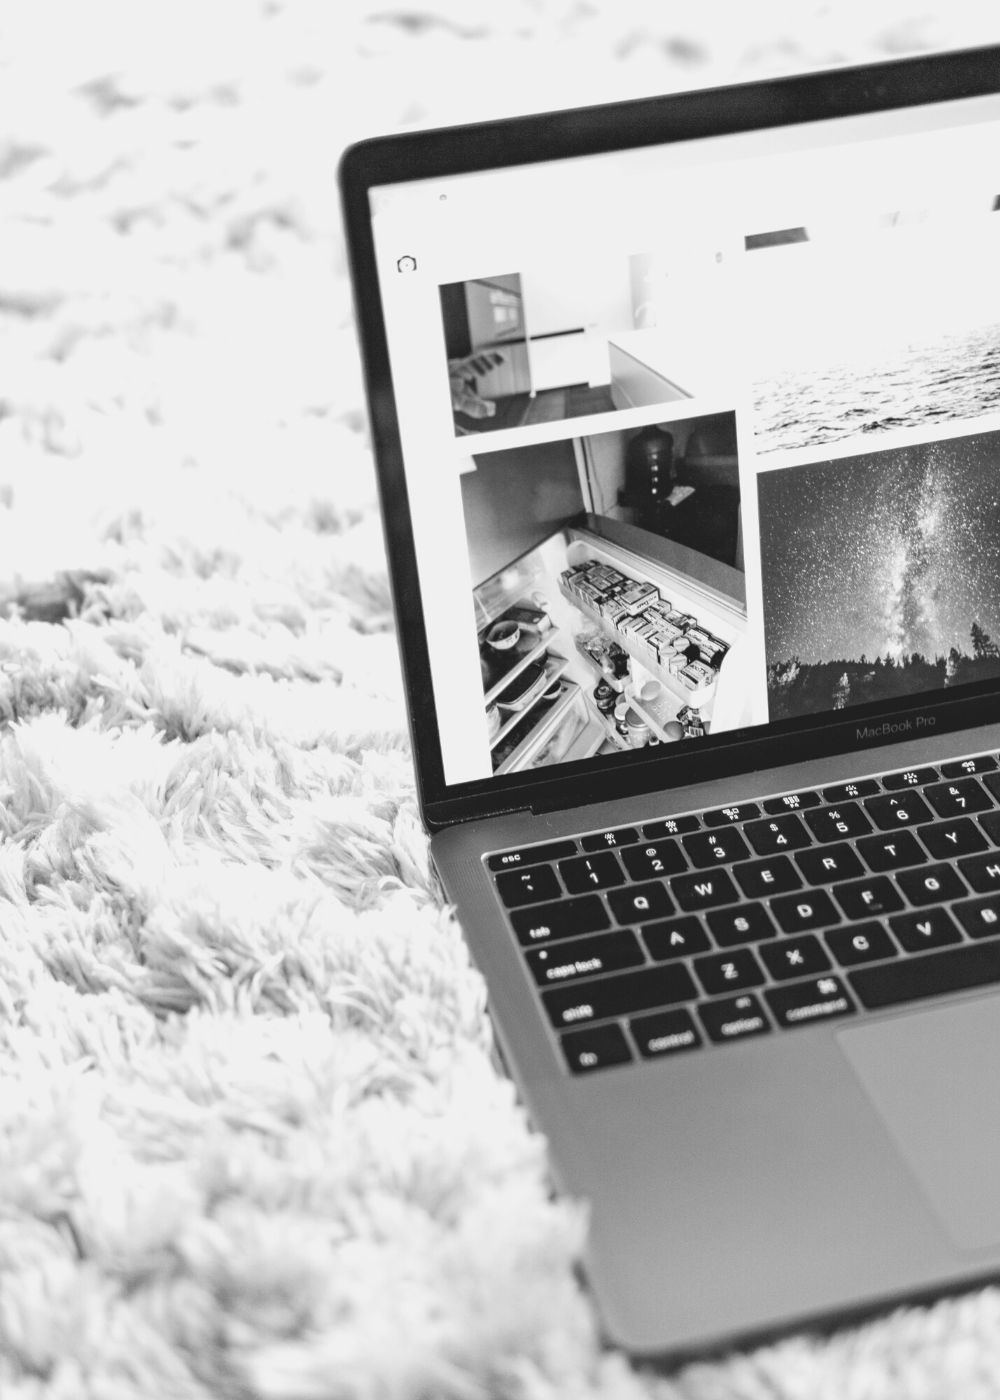
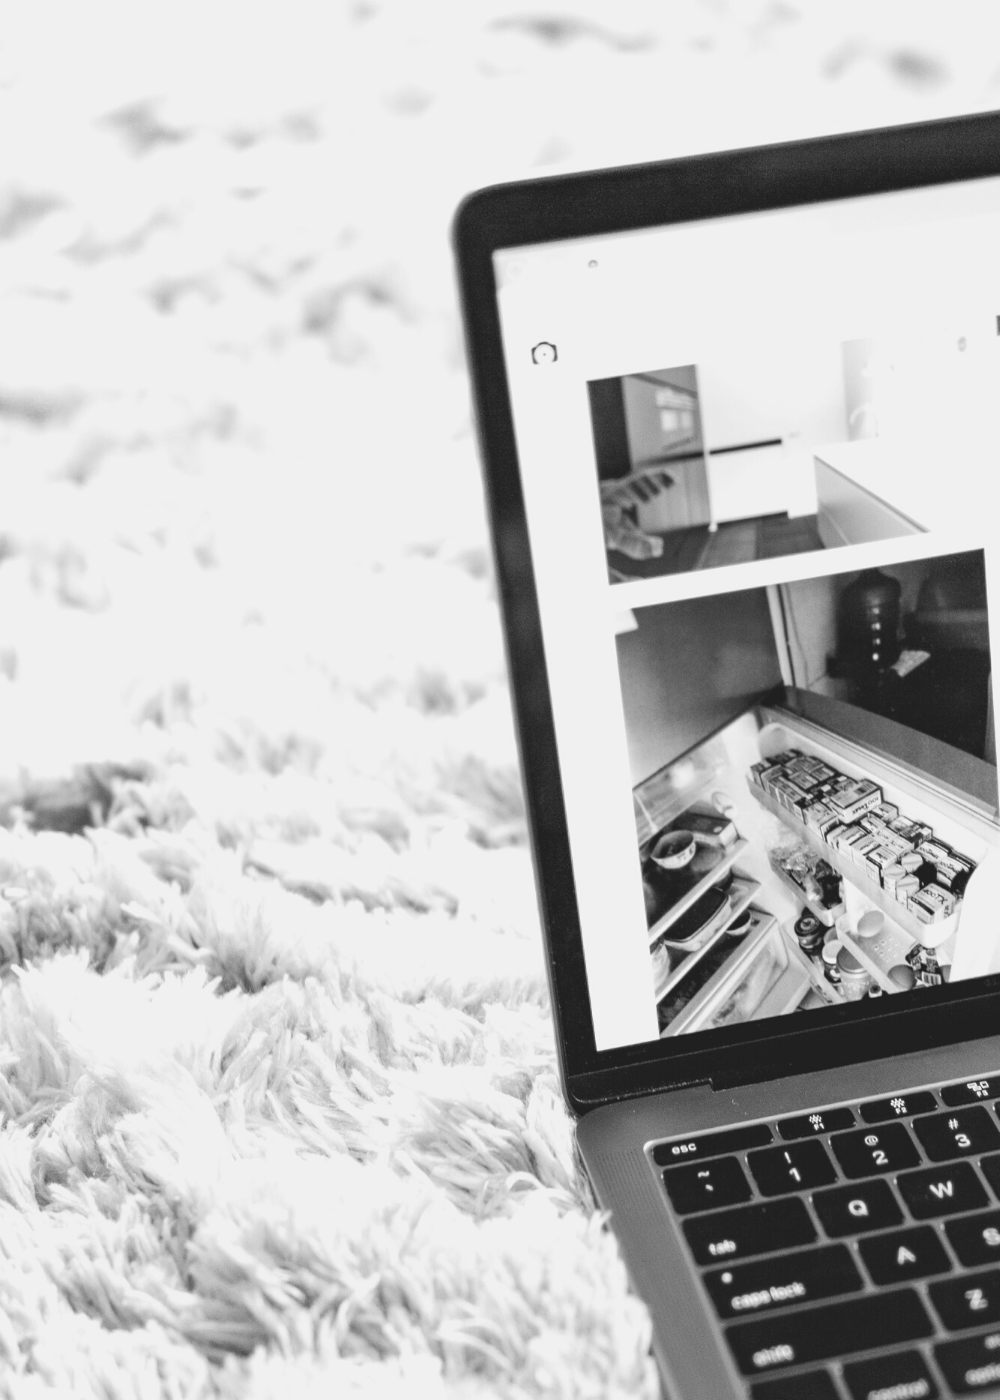
save for now

diff --git a/assets/css/style.css b/assets/css/style.css
@@ -38,10 +38,10 @@ body{
 
 /*--------------------------------------------landing-view*/
 .jumbotron{
-    height:700px;
+    height:580px;
     width: 100%;
     
-    background-image: url("../images/open-doors.png");
+    background-image: url("../images/laptop-carpet.png");
 
     background-repeat: no-repeat;
     background-size: cover;
@@ -131,28 +131,36 @@ https://images.unsplash.com/photo-1473181488821-2d23949a045a?ixlib=rb-1.2.1&ixid
     margin-left: 2px;
     margin-right: 2px;
 
-    background-image: url("../images/chair-and-laptop.png");
+    background-image: url("../images/ipad-and-notebook.png");
     background-position: center;
     background-repeat: no-repeat;
     background-size: cover;
     background-attachment: fixed;
 }
 
+/*
+#my-work h2,
+#my-work p{
+    color: rgba(242, 242, 242)
+}
+*/
+
 .col-sm{
-    background-color: rgb(242, 242, 242, .7);
+    background-color: rgb(242, 242, 242, .8);
 
     height: 245px;
-
-    position: relative;
     top: 15%;
 
+    border-radius: 8px;
+
+    position: relative;
     overflow: hidden;
 }
 
 .col-sm h3,
-.col-sm p
+.col-sm p,
 .col-sm img{
-    color: #333333;
+    color: rgba(60, 60, 60);
     
     text-align: center;
     position: relative;
@@ -192,7 +200,7 @@ ul{
 }
 
 .skills-background{
-    background-image: url("../images/wall.png");
+    background-image: url("../images/laptop-carpet.png");
     background-repeat: no-repeat;
     background-size: cover;
     background-attachment: fixed;
@@ -212,7 +220,8 @@ ul{
 }
 
 .card{
-    background-color: rgb(242, 242, 242, .9);
+    background-color: rgb(242, 242, 242, .8);
+    border-radius: 6px;
 }
 
 /*--------------------------------------------brands*/
@@ -372,6 +381,19 @@ ul{
     }
 }
 
+@media (max-width: 360px) {
+    #my-work{
+        height: 1880px;
+    }
+    .col-sm{
+        height: 265px;
+    }
+    .work-icons{
+        width: auto;
+        height: 44px;
+    }
+}
+
 /*-----------------------------------my-brands*/
 @media (max-width: 992px) {
     #my-brands{
@@ -415,12 +437,14 @@ ul{
 #my-skills{
     height: 860px;
     margin: auto;
+    padding-left: 6%;
+    padding-right: 6%;
     }
 }
 
 @media (max-width: 360px) {
 #my-skills{
-    height: 900px;
+    height: 1000px;
     margin: auto;
     }
 }
@@ -449,6 +473,9 @@ ul{
         padding-right: 0px;
     }  
 @media (max-width: 360px) {
+    #recommendations{
+        height: 500px;
+    }
     .carousel-item{
         width: 260px;
         padding-left: 0px;
